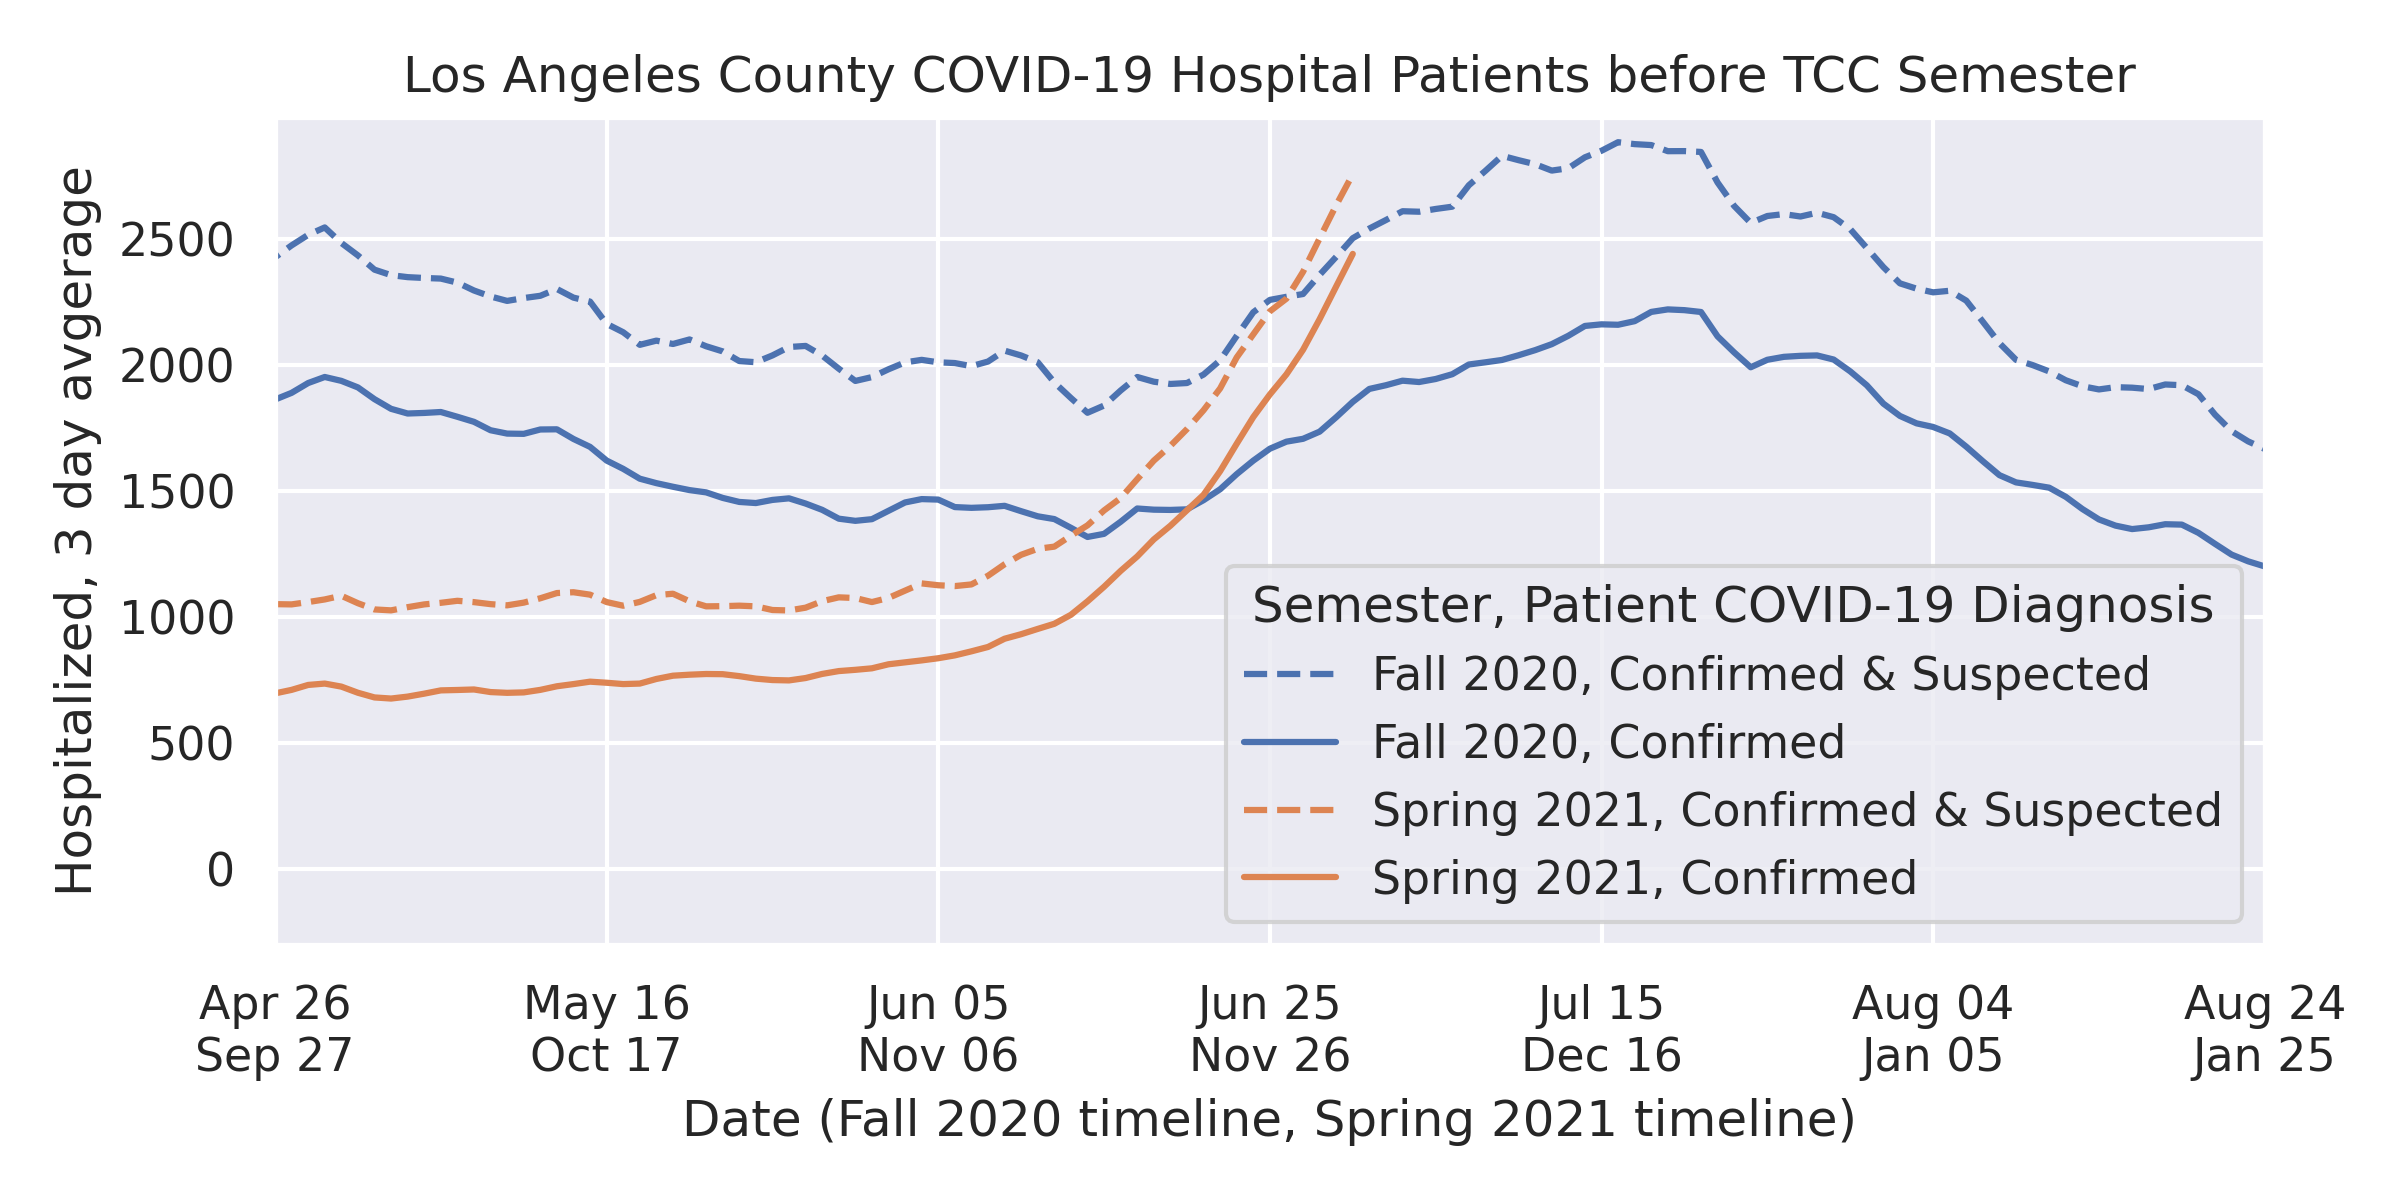
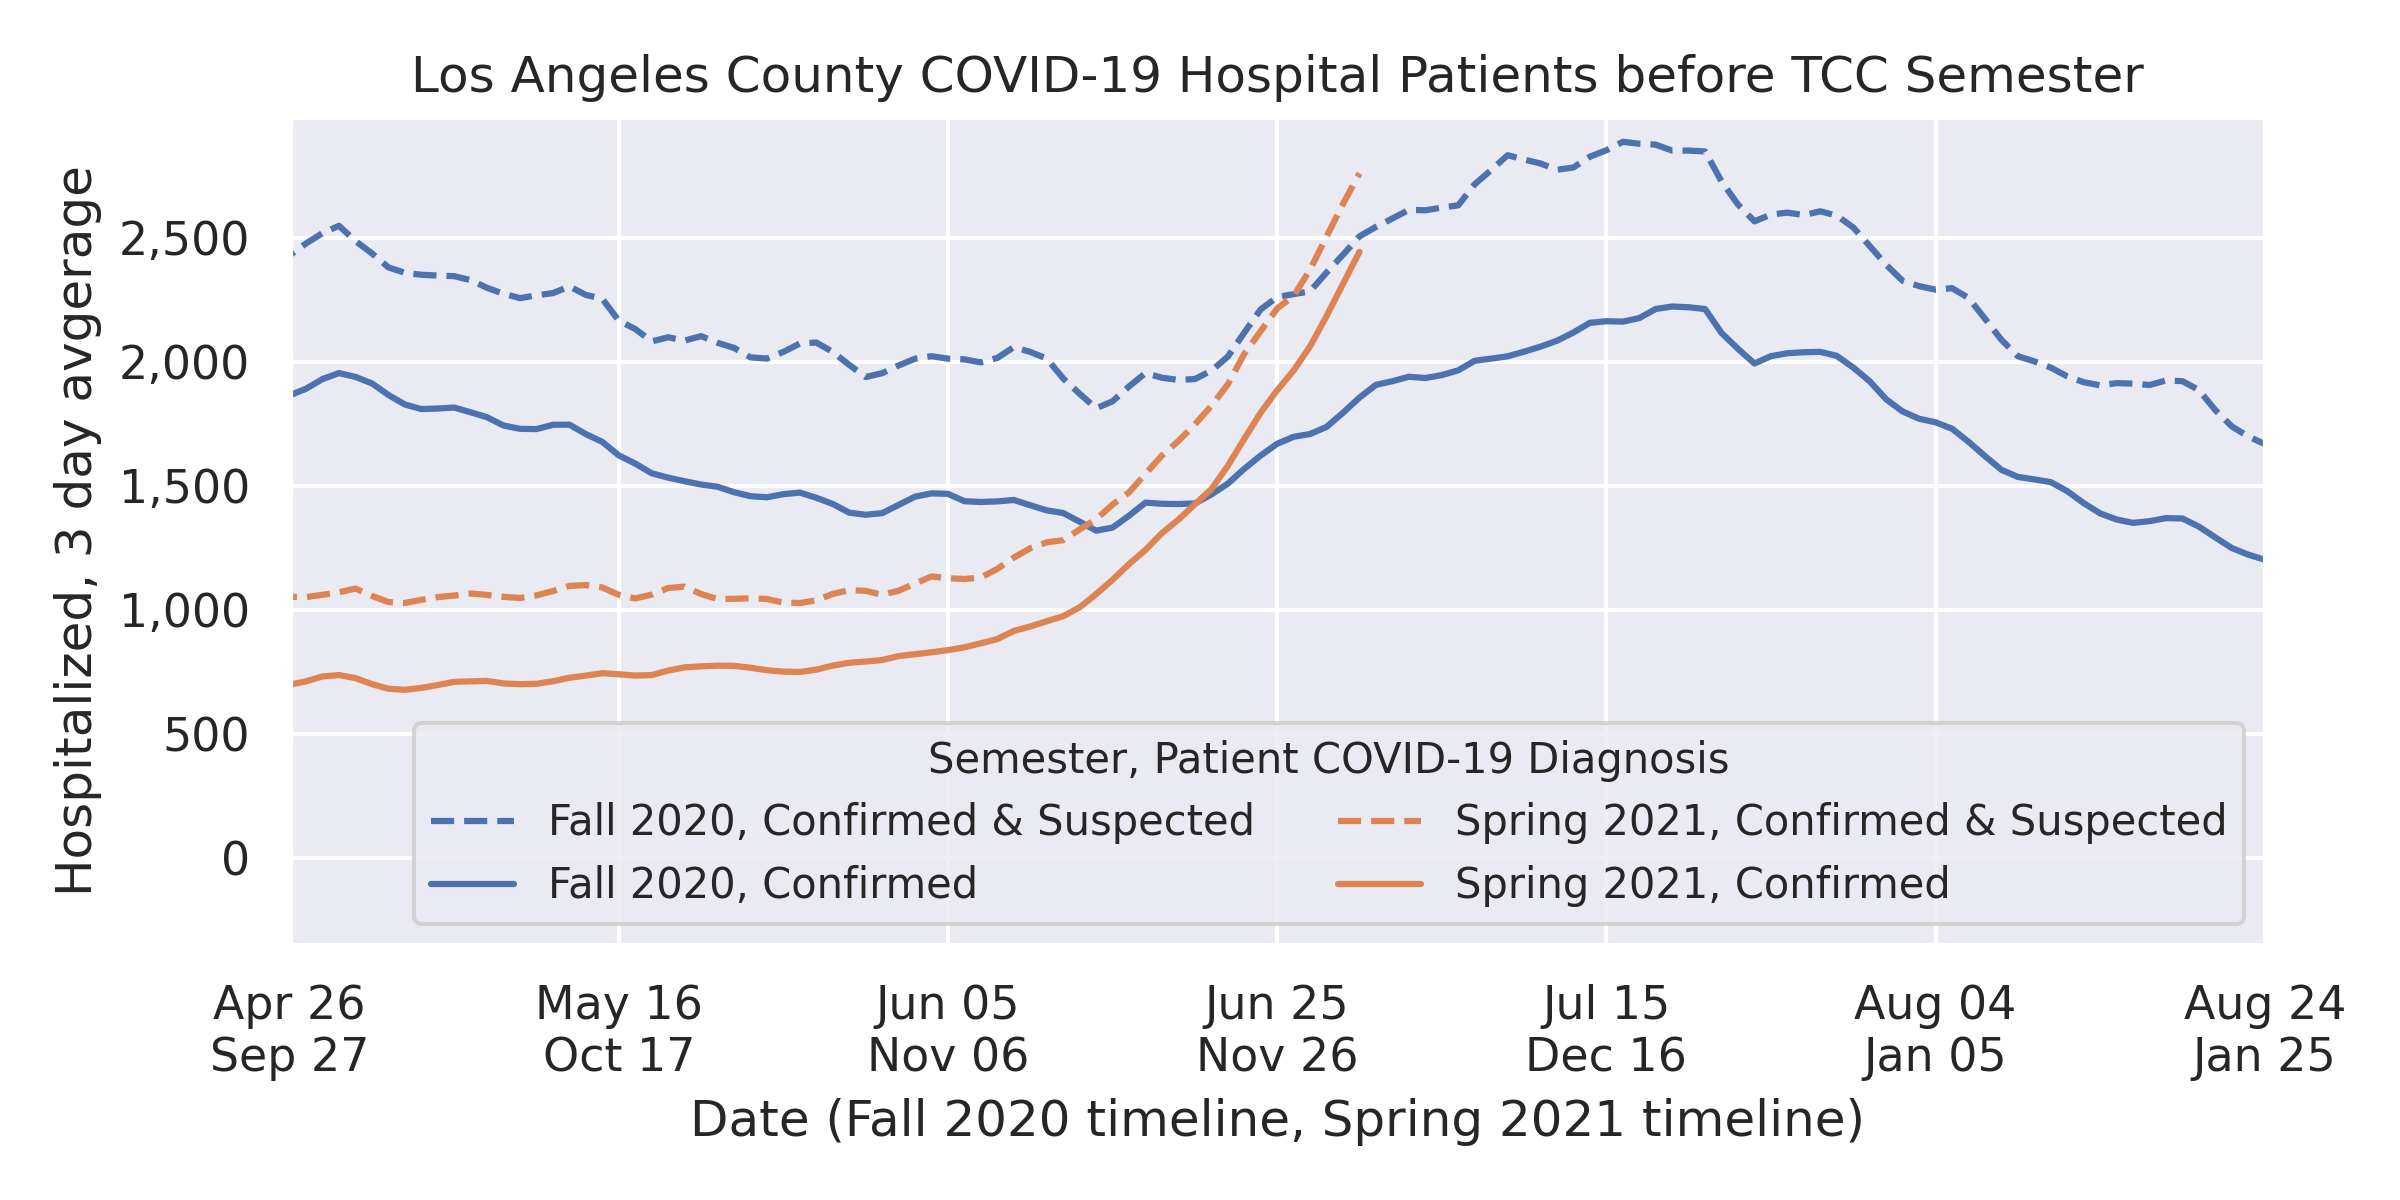
Revised graph layout for simplicity

diff --git a/semester_start_countdown.py b/semester_start_countdown.py
@@ -18,12 +18,15 @@
 # In[ ]:
 
 
+import locale
 import matplotlib.pyplot as plt
 from matplotlib.ticker import FuncFormatter
 import numpy as np
 import pandas as pd
 import requests
 import seaborn as sns
+
+locale.setlocale(locale.LC_ALL, 'en_US.UTF-8')
 
 plt.rcParams.update({'figure.autolayout': True})
 sns.set()
@@ -160,18 +163,22 @@ ax.text(horizontal_pad, substantial_rate+50, widespread_message, ha='right', col
 ax.axhline(substantial_rate, color=substantial_color, linestyle='dashed', alpha=alpha)
 ax.text(horizontal_pad, substantial_rate-vertical_pad, substantial_message,
         ha='right', va='top', color=substantial_color, alpha=alpha)
-ax.axhline(moderate_rate, color=moderate_color, linestyle='dashed', alpha=alpha)
-ax.text(horizontal_pad, moderate_rate-vertical_pad, moderate_message,
-        ha='right', va='top', color=moderate_color, alpha=alpha)
+# ax.axhline(moderate_rate, color=moderate_color, linestyle='dashed', alpha=alpha)
+# ax.text(horizontal_pad, moderate_rate-vertical_pad, moderate_message,
+#         ha='right', va='top', color=moderate_color, alpha=alpha)
 
 ax.set_title('Los Angeles County COVID-19 Transmission before TCC Semester')
 sns.lineplot(x=DAYS_UNTIL_SEMESTER, y=NEW_CASES_AVG, hue=SEMESTER, data=df_la, ax=ax)
+
+ax.set_yticks(list(range(0, int(df_la[NEW_CASES_AVG].max())+500, 500)))
+ax.set_yticklabels([f'{int(x):n}' if x%1000==0 else '' for x in ax.get_yticks()])
 
 ax.set_xlabel(X_AXIS_LABEL)
 ax.set_ylabel(NEW_CASES_AVG)
 ax.set_xlim(120, 0)
 ax.xaxis.set_major_formatter(FuncFormatter(date_axis_text))
-ax.set_ylim(moderate_rate-vertical_pad-250, df_la[NEW_CASES_AVG].max()+100)
+# ax.set_ylim(moderate_rate-vertical_pad-250, df_la[NEW_CASES_AVG].max()+100)
+ax.set_ylim(650, df_la[NEW_CASES_AVG].max()+100)
 ax.legend(loc='upper left', title=SEMESTER)
 
 fig.savefig('docs/semester-start-v-new-cases.png')
@@ -191,13 +198,19 @@ ax.plot(DAYS_UNTIL_SEMESTER, HOSPITALIZED_ALL_AVG, '--', color=sns.color_palette
 ax.plot(DAYS_UNTIL_SEMESTER, HOSPITALIZED_CONFIRMED_AVG, color=sns.color_palette()[1], label='Spring 2021, Confirmed',
         data=df_la[df_la[SEMESTER] == SPRING_2021])
 
-ax.legend(title='Semester, Patient COVID-19 Diagnosis')
+ax.set_yticks(list(range(0, int(df_la[HOSPITALIZED_ALL_AVG].max()+500), 500)))
+ax.set_yticklabels([f'{int(x):n}' for x in ax.get_yticks()])
+
 ax.set_xlabel(X_AXIS_LABEL)
 ax.xaxis.set_major_formatter(FuncFormatter(date_axis_text))
 ax.set_ylabel('Hospitalized, 3 day avgerage')
 ax.set_title('Los Angeles County COVID-19 Hospital Patients before TCC Semester')
 ax.set_xlim(120, 0)
-ax.set_ylim(-300, df_la[HOSPITALIZED_ALL_AVG].max()+100)
+ax.set_ylim(-350, df_la[HOSPITALIZED_ALL_AVG].max()+100)
+
+ax.legend(title='Semester, Patient COVID-19 Diagnosis', loc='lower right',
+          ncol=2, fontsize='small', title_fontsize='small')
+
 fig.savefig('docs/semester-start-v-hospitalized.png')
 fig.show()
 
